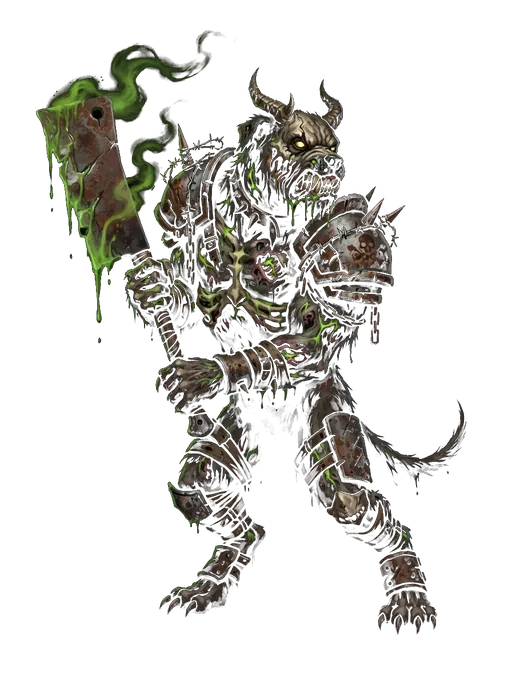
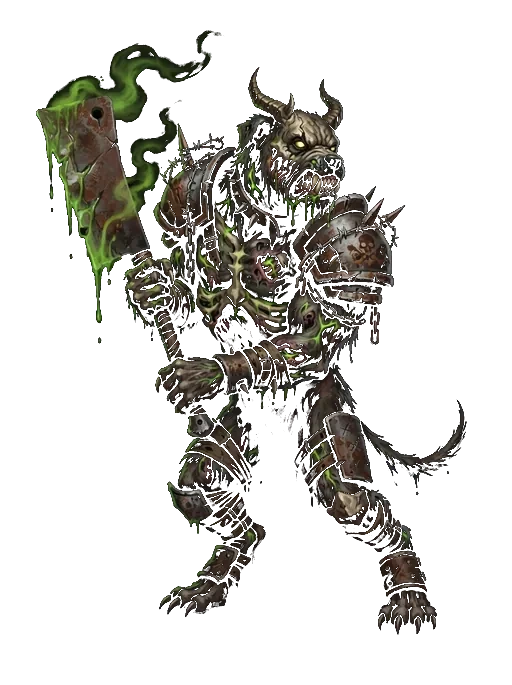
fix(pve): harden ch3/ch4 monster cutout alpha

diff --git a/client/web-hud/public/app.js b/client/web-hud/public/app.js
@@ -694,6 +694,8 @@ const state = {
     pvpWins: 0,
     clearedFights: {}, // stageId -> true
   },
+  /** D-045 · title_ru / effect_ru / cost from data/card-effects.json */
+  cardEffects: {},
 };
 
 /** Seed for warehouse stub reset / API mirror (D-028). */
@@ -886,6 +888,16 @@ async function api(path, opts = {}) {
 async function loadLoc() {
   const { data } = await api("/loc.json");
   state.loc = data || {};
+}
+
+/** D-045 · attack-card copy for composed chrome (title / effect / cost). */
+async function loadCardEffects() {
+  try {
+    const { data } = await api("/data/card-effects.json");
+    state.cardEffects = data && typeof data === "object" ? data : {};
+  } catch {
+    state.cardEffects = {};
+  }
 }
 
 async function bootLiveOps() {
@@ -3202,18 +3214,18 @@ const MONSTER_BATTLE_BY_FACTION = {
   red_dogs: {
     // Ch3 refs: shield tank / dual-axe fighter / flaming-sickle support; flaming-sword pitboss.
     // ?v= after in-place facing rebakes (Amvera/browser max-age=300).
-    tank: ["/stitch-assets/monsters/battle/redd-tank-cutout.webp?v=d040ch3tf"],
-    fighter: ["/stitch-assets/monsters/battle/redd-fighter-cutout.webp?v=d040ch3tf"],
-    support: ["/stitch-assets/monsters/battle/redd-support-cutout.webp"],
-    pitboss: ["/stitch-assets/monsters/battle/redd-pitboss-cutout.webp?v=d040ch3pb"],
+    tank: ["/stitch-assets/monsters/battle/redd-tank-cutout.webp?v=opaque1"],
+    fighter: ["/stitch-assets/monsters/battle/redd-fighter-cutout.webp?v=opaque1"],
+    support: ["/stitch-assets/monsters/battle/redd-support-cutout.webp?v=opaque1"],
+    pitboss: ["/stitch-assets/monsters/battle/redd-pitboss-cutout.webp?v=opaque1"],
   },
   zombies: {
     // Ch4 refs: axe guardian / cleaver butcher / dagger plague-carrier; scythe pitboss.
-    tank: ["/stitch-assets/monsters/battle/zombie-tank-cutout.webp"],
-    fighter: ["/stitch-assets/monsters/battle/zombie-fighter-cutout.webp"],
-    assassin: ["/stitch-assets/monsters/battle/zombie-fighter-cutout.webp"],
-    support: ["/stitch-assets/monsters/battle/zombie-support-cutout.webp"],
-    pitboss: ["/stitch-assets/monsters/battle/zombie-pitboss-cutout.webp"],
+    tank: ["/stitch-assets/monsters/battle/zombie-tank-cutout.webp?v=opaque1"],
+    fighter: ["/stitch-assets/monsters/battle/zombie-fighter-cutout.webp?v=opaque1"],
+    assassin: ["/stitch-assets/monsters/battle/zombie-fighter-cutout.webp?v=opaque1"],
+    support: ["/stitch-assets/monsters/battle/zombie-support-cutout.webp?v=opaque1"],
+    pitboss: ["/stitch-assets/monsters/battle/zombie-pitboss-cutout.webp?v=opaque1"],
   },
   ghosts: {
     // Ch5 refs: shield+flail / scimitar cape / shaman staff; banner-sword pitboss.
@@ -6164,13 +6176,15 @@ function renderHomeDeck(cat) {
   }
   grid.innerHTML = cards
     .map((c) => {
-      const title = t(c.name_key, c.stem);
-      if (c.art) {
-        return `<div class="group relative rounded-lg bg-surface-container-lowest border border-outline-variant/40 aspect-[2/3] overflow-hidden shadow mf-atk-card mf-atk-card--art" title="${title} · ${c.cost} AP · ${c.part}"><img alt="${title}" class="w-full h-full object-cover" src="${c.art}"/></div>`;
+      const pres = attackCardPresentation({ cardId: c.cardId, name_key: c.name_key, cost: c.cost });
+      const title = pres.title;
+      if (pres.art) {
+        return `<div class="group relative rounded-lg border border-outline-variant/40 aspect-[2/3] overflow-hidden shadow mf-atk-card mf-atk-card--art mf-atk-card--compose" data-element="${pres.element || ""}" title="${escapeAttackCardText(title)} · ${pres.cost} AP · ${c.part}">${attackCardComposeHtml(pres)}</div>`;
       }
-      return `<div class="group relative rounded-lg bg-surface-container-lowest border border-outline-variant/40 aspect-[2/3] flex flex-col items-center justify-center p-1 text-center" title="${title}"><span class="text-[10px] font-label-sm text-on-surface">${title}</span><span class="text-[9px] text-on-surface-variant mt-1">${c.cost} AP · ${c.part}</span></div>`;
+      return `<div class="group relative rounded-lg bg-surface-container-lowest border border-outline-variant/40 aspect-[2/3] flex flex-col items-center justify-center p-1 text-center" title="${escapeAttackCardText(title)}"><span class="text-[10px] font-label-sm text-on-surface">${escapeAttackCardText(title)}</span><span class="text-[9px] text-on-surface-variant mt-1">${pres.cost} AP · ${c.part}</span></div>`;
     })
     .join("");
+  bindAttackCardIllustFallback(grid);
 }
 
 /** Extract cat templateId from battle unit id (`p1_0_shop_tank_stone_a`). */
@@ -6483,11 +6497,17 @@ const ATTACK_CARD_ART_ALIAS = {
   card_support_water_tail: "shop_support_water_a_tail",
 };
 
-function attackCardArtUrl(cardId) {
-  if (!cardId) return "";
+/** D-045 · shared empty frame; element rune + soft CSS tint. */
+const ATTACK_CARD_CHROME_URL = "/stitch-assets/attack-cards/chrome/attack_card_chrome.jpg";
+
+function attackCardRuneUrl(element) {
+  if (!element) return "";
+  return `/stitch-assets/attack-cards/chrome/runes/${element}.svg`;
+}
+
+function attackCardArtParts(cardId) {
+  if (!cardId) return null;
   const raw = ATTACK_CARD_ART_ALIAS[cardId] || String(cardId).replace(/^card_/, "");
-  // shop_tank_stone_a_muzzle → shop_tank_stone_a | muzzle
-  // tank_stone_muzzle (after alias) already shop_*
   let folderKey = "";
   let fileStem = raw;
   if (raw.startsWith("shop_")) {
@@ -6501,8 +6521,96 @@ function attackCardArtUrl(cardId) {
     if (m) folderKey = m[1];
   }
   const folder = ATTACK_CARD_ART_FOLDER[folderKey];
-  if (!folder) return "";
-  return `/stitch-assets/attack-cards/${folder}/attack_${fileStem}.webp`;
+  if (!folder) return null;
+  return { folder, fileStem, raw, folderKey };
+}
+
+function attackCardElement(cardId) {
+  const parts = attackCardArtParts(cardId);
+  const raw = parts?.raw || String(cardId || "");
+  if (/_stone_/.test(raw)) return "stone";
+  if (/_fire_/.test(raw)) return "fire";
+  if (/_ice_/.test(raw)) return "ice";
+  if (/_water_/.test(raw)) return "water";
+  if (/_grass_/.test(raw)) return "grass";
+  if (/_bolt_/.test(raw)) return "bolt";
+  return "";
+}
+
+/** D-045 · illustration crop (not full plate). Fallback to legacy webp plate. */
+function attackCardArtUrl(cardId) {
+  const parts = attackCardArtParts(cardId);
+  if (!parts) return "";
+  return `/stitch-assets/attack-cards/illust/${parts.folder}/attack_${parts.fileStem}.jpg`;
+}
+
+function attackCardLegacyPlateUrl(cardId) {
+  const parts = attackCardArtParts(cardId);
+  if (!parts) return "";
+  return `/stitch-assets/attack-cards/${parts.folder}/attack_${parts.fileStem}.webp`;
+}
+
+function attackCardPresentation(c) {
+  const cardId = c?.cardId || "";
+  const fx = state.cardEffects?.[cardId] || {};
+  const title = fx.title_ru || t(c?.name_key, cardId);
+  const effect = fx.effect_ru || "";
+  const cost = c?.cost ?? fx.cost ?? "?";
+  const art = attackCardArtUrl(cardId);
+  const element = attackCardElement(cardId);
+  return {
+    cardId,
+    title,
+    effect,
+    cost,
+    art,
+    element,
+    chrome: ATTACK_CARD_CHROME_URL,
+    rune: attackCardRuneUrl(element),
+  };
+}
+
+function escapeAttackCardText(s) {
+  return String(s ?? "")
+    .replace(/&/g, "&amp;")
+    .replace(/</g, "&lt;")
+    .replace(/>/g, "&gt;")
+    .replace(/"/g, "&quot;");
+}
+
+/** D-045 · one chrome + live title / cost / effect / illust / element rune. */
+function attackCardComposeHtml(pres) {
+  const title = escapeAttackCardText(pres.title);
+  const effect = escapeAttackCardText(pres.effect);
+  const cost = escapeAttackCardText(pres.cost);
+  const art = escapeAttackCardText(pres.art);
+  const chrome = escapeAttackCardText(pres.chrome);
+  const rune = escapeAttackCardText(pres.rune || "");
+  const artBlock = art
+    ? `<img class="mf-atk-card__illust" alt="${title}" src="${art}" data-fallback="${escapeAttackCardText(attackCardLegacyPlateUrl(pres.cardId))}"/>`
+    : "";
+  const runeBlock = rune
+    ? `<img class="mf-atk-card__rune" alt="" src="${rune}" draggable="false"/>`
+    : "";
+  return `<img class="mf-atk-card__chrome" alt="" src="${chrome}" draggable="false"/>${artBlock}${runeBlock}<span class="mf-atk-card__cost">${cost}</span><b class="mf-atk-card__meta">${title}</b><span class="mf-atk-card__desc">${effect}</span><span class="mf-atk-card__sub">${cost} AP</span>`;
+}
+
+function bindAttackCardIllustFallback(root) {
+  root?.querySelectorAll?.("img.mf-atk-card__illust[data-fallback]").forEach((img) => {
+    img.addEventListener(
+      "error",
+      () => {
+        const fb = img.getAttribute("data-fallback");
+        if (fb && img.src !== fb) {
+          img.removeAttribute("data-fallback");
+          img.src = fb;
+          return;
+        }
+        img.remove();
+      },
+      { once: true },
+    );
+  });
 }
 
 function unitCrowdControlled(diff, unitId) {
@@ -6511,29 +6619,25 @@ function unitCrowdControlled(diff, unitId) {
   return (u.statuses || []).some((s) => s.id === "stun" || s.id === "sleep");
 }
 
-/** Portrait attack-card button for practice / PvP / wire battle hands. */
+/** Portrait attack-card button for practice / PvP / wire battle hands. D-045 compose. */
 function makeAttackHandButton(c, diff, classNames = "mf-atk-card") {
   const b = document.createElement("button");
   b.type = "button";
-  const art = attackCardArtUrl(c.cardId);
-  const title = t(c.name_key, c.cardId);
-  const cost = c.cost ?? "?";
+  const pres = attackCardPresentation(c);
+  const { title, cost, art, element } = pres;
   const cc = unitCrowdControlled(diff, c.unitId);
-  b.className = art ? `${classNames} mf-atk-card--art pf-card pf-card-art` : `${classNames} mf-atk-card--text pf-card`;
+  b.className = art
+    ? `${classNames} mf-atk-card--art mf-atk-card--compose pf-card pf-card-art`
+    : `${classNames} mf-atk-card--text pf-card`;
+  if (element) b.dataset.element = element;
   if (cc) b.classList.add("mf-atk-card--stunned");
   b.disabled = !c.playable || cc || !!diff.result || diff.active !== 0 || !!state.oppThrowPlaying;
   b.title = cc ? `${title} · стан/сон — пропуск хода` : `${title} · ${cost} AP`;
   if (art) {
-    b.innerHTML = `<img alt="${title}" src="${art}"/><b class="mf-atk-card__meta">${title}</b><span class="mf-atk-card__sub">${cost} AP</span>`;
-    const img = b.querySelector("img");
-    img?.addEventListener("error", () => {
-      // Missing/broken plate → text card instead of empty black tile.
-      b.classList.remove("mf-atk-card--art", "pf-card-art");
-      b.classList.add("mf-atk-card--text");
-      img.remove();
-    });
+    b.innerHTML = attackCardComposeHtml(pres);
+    bindAttackCardIllustFallback(b);
   } else {
-    b.innerHTML = `<b class="mf-atk-card__meta">${title}</b><span class="mf-atk-card__sub">${cost} AP</span>`;
+    b.innerHTML = `<b class="mf-atk-card__meta">${escapeAttackCardText(title)}</b><span class="mf-atk-card__sub">${escapeAttackCardText(cost)} AP</span>`;
   }
   b.addEventListener("click", () =>
     submitAction({ kind: "playCard", unitId: c.unitId, handIndex: c.handIndex, targetId: "" }),
@@ -7241,32 +7345,18 @@ function renderBattle() {
     hand.appendChild(b);
   } else {
     for (const c of diff.hand || []) {
-      const art = attackCardArtUrl(c.cardId);
-      const title = t(c.name_key, c.cardId);
-      const cost = c.cost ?? "?";
-      const b = document.createElement("button");
-      b.type = "button";
-      b.className = art
-        ? "mf-atk-card mf-atk-card--art pf-card pf-card-art"
-        : "mf-atk-card mf-atk-card--text pf-card";
-      b.disabled = !c.playable || !!diff.result || diff.active !== 0 || !!state.oppThrowPlaying;
-      b.title = `${title} · ${cost} AP`;
-      b.innerHTML = art
-        ? `<img alt="${title}" src="${art}"/><b class="mf-atk-card__meta">${title}</b><span class="mf-atk-card__sub">${cost} AP</span>`
-        : `<b class="mf-atk-card__meta">${title}</b><span class="mf-atk-card__sub">${cost} AP</span>`;
-      b.addEventListener("click", async () => {
-        if (state.selectedKeep?.mode) {
-          await submitAction({ kind: "keep", unitId: c.unitId, handIndex: c.handIndex });
-          state.selectedKeep = null;
-          return;
-        }
-        await submitAction({
-          kind: "playCard",
-          unitId: c.unitId,
-          handIndex: c.handIndex,
-          targetId: "",
-        });
-      });
+      const b = makeAttackHandButton(c, diff, "mf-atk-card");
+      if (state.selectedKeep?.mode) {
+        b.addEventListener(
+          "click",
+          async (ev) => {
+            ev.stopImmediatePropagation();
+            await submitAction({ kind: "keep", unitId: c.unitId, handIndex: c.handIndex });
+            state.selectedKeep = null;
+          },
+          true,
+        );
+      }
       hand.appendChild(b);
     }
   }
@@ -10153,6 +10243,7 @@ async function main() {
     loadProgress();
     loadGearStub();
     await loadLoc();
+    await loadCardEffects();
     await bootLiveOps();
     await loadCampaign();
     await bootStarterGrant();
